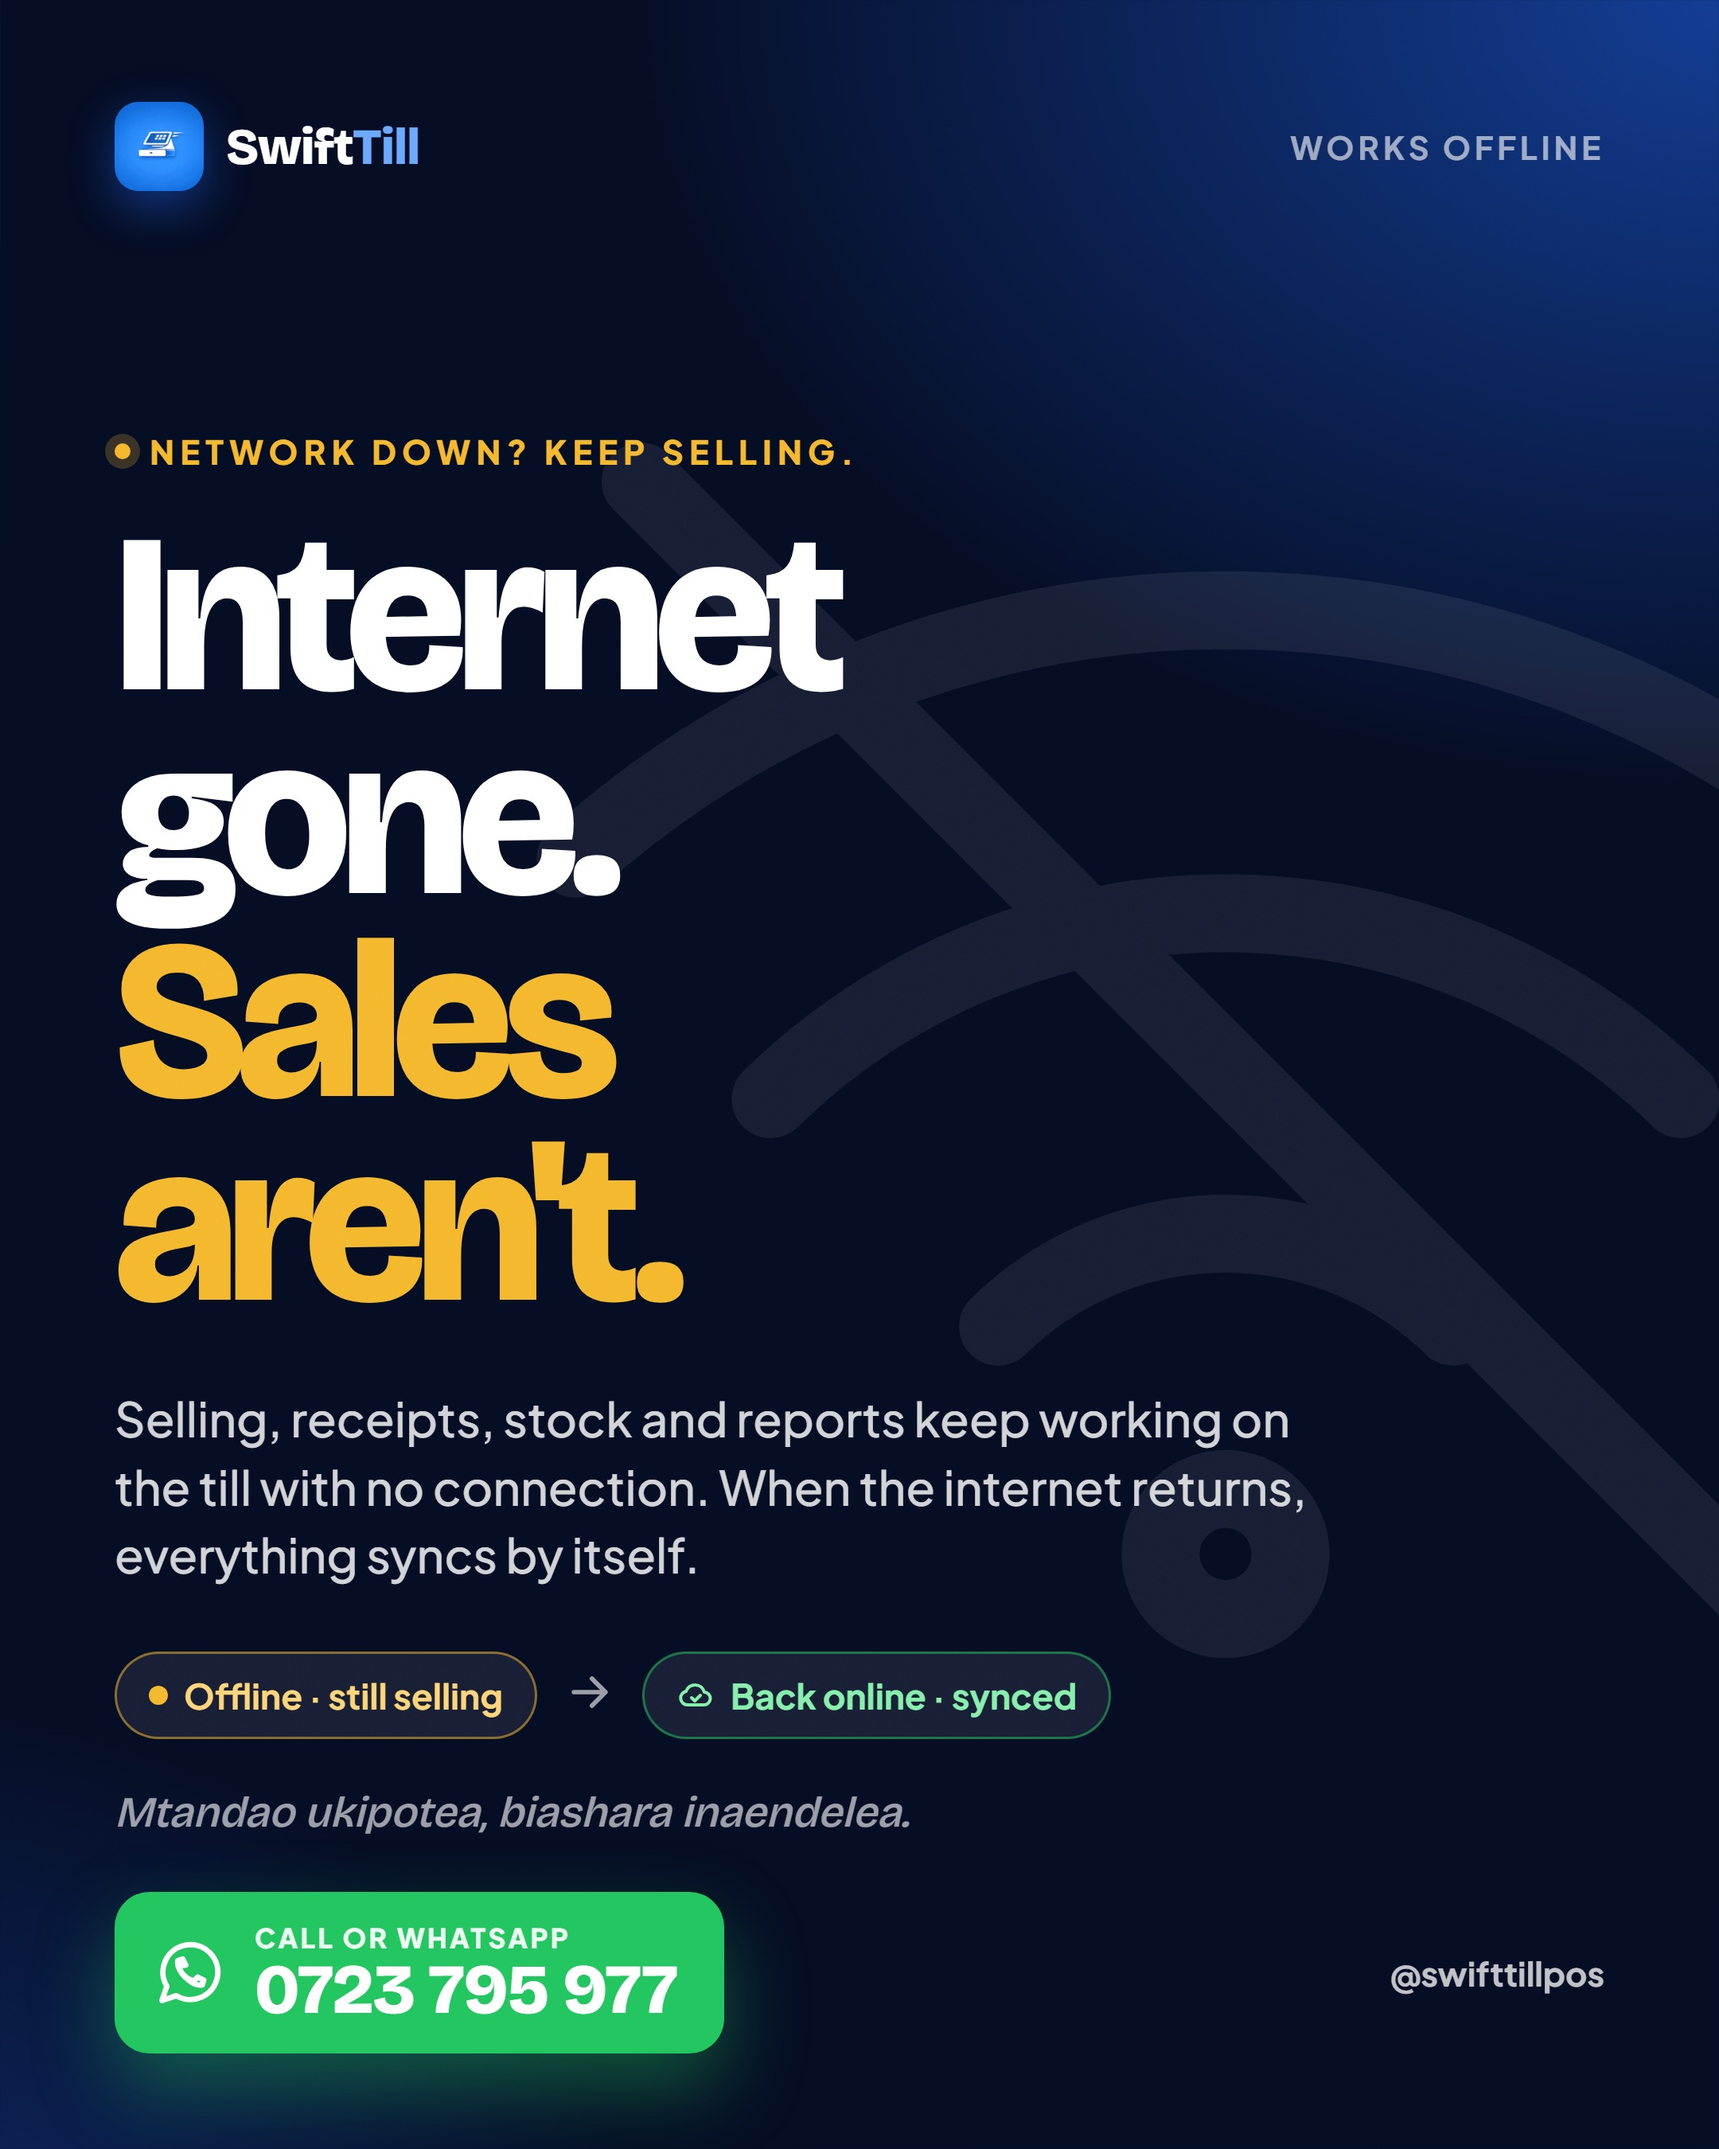
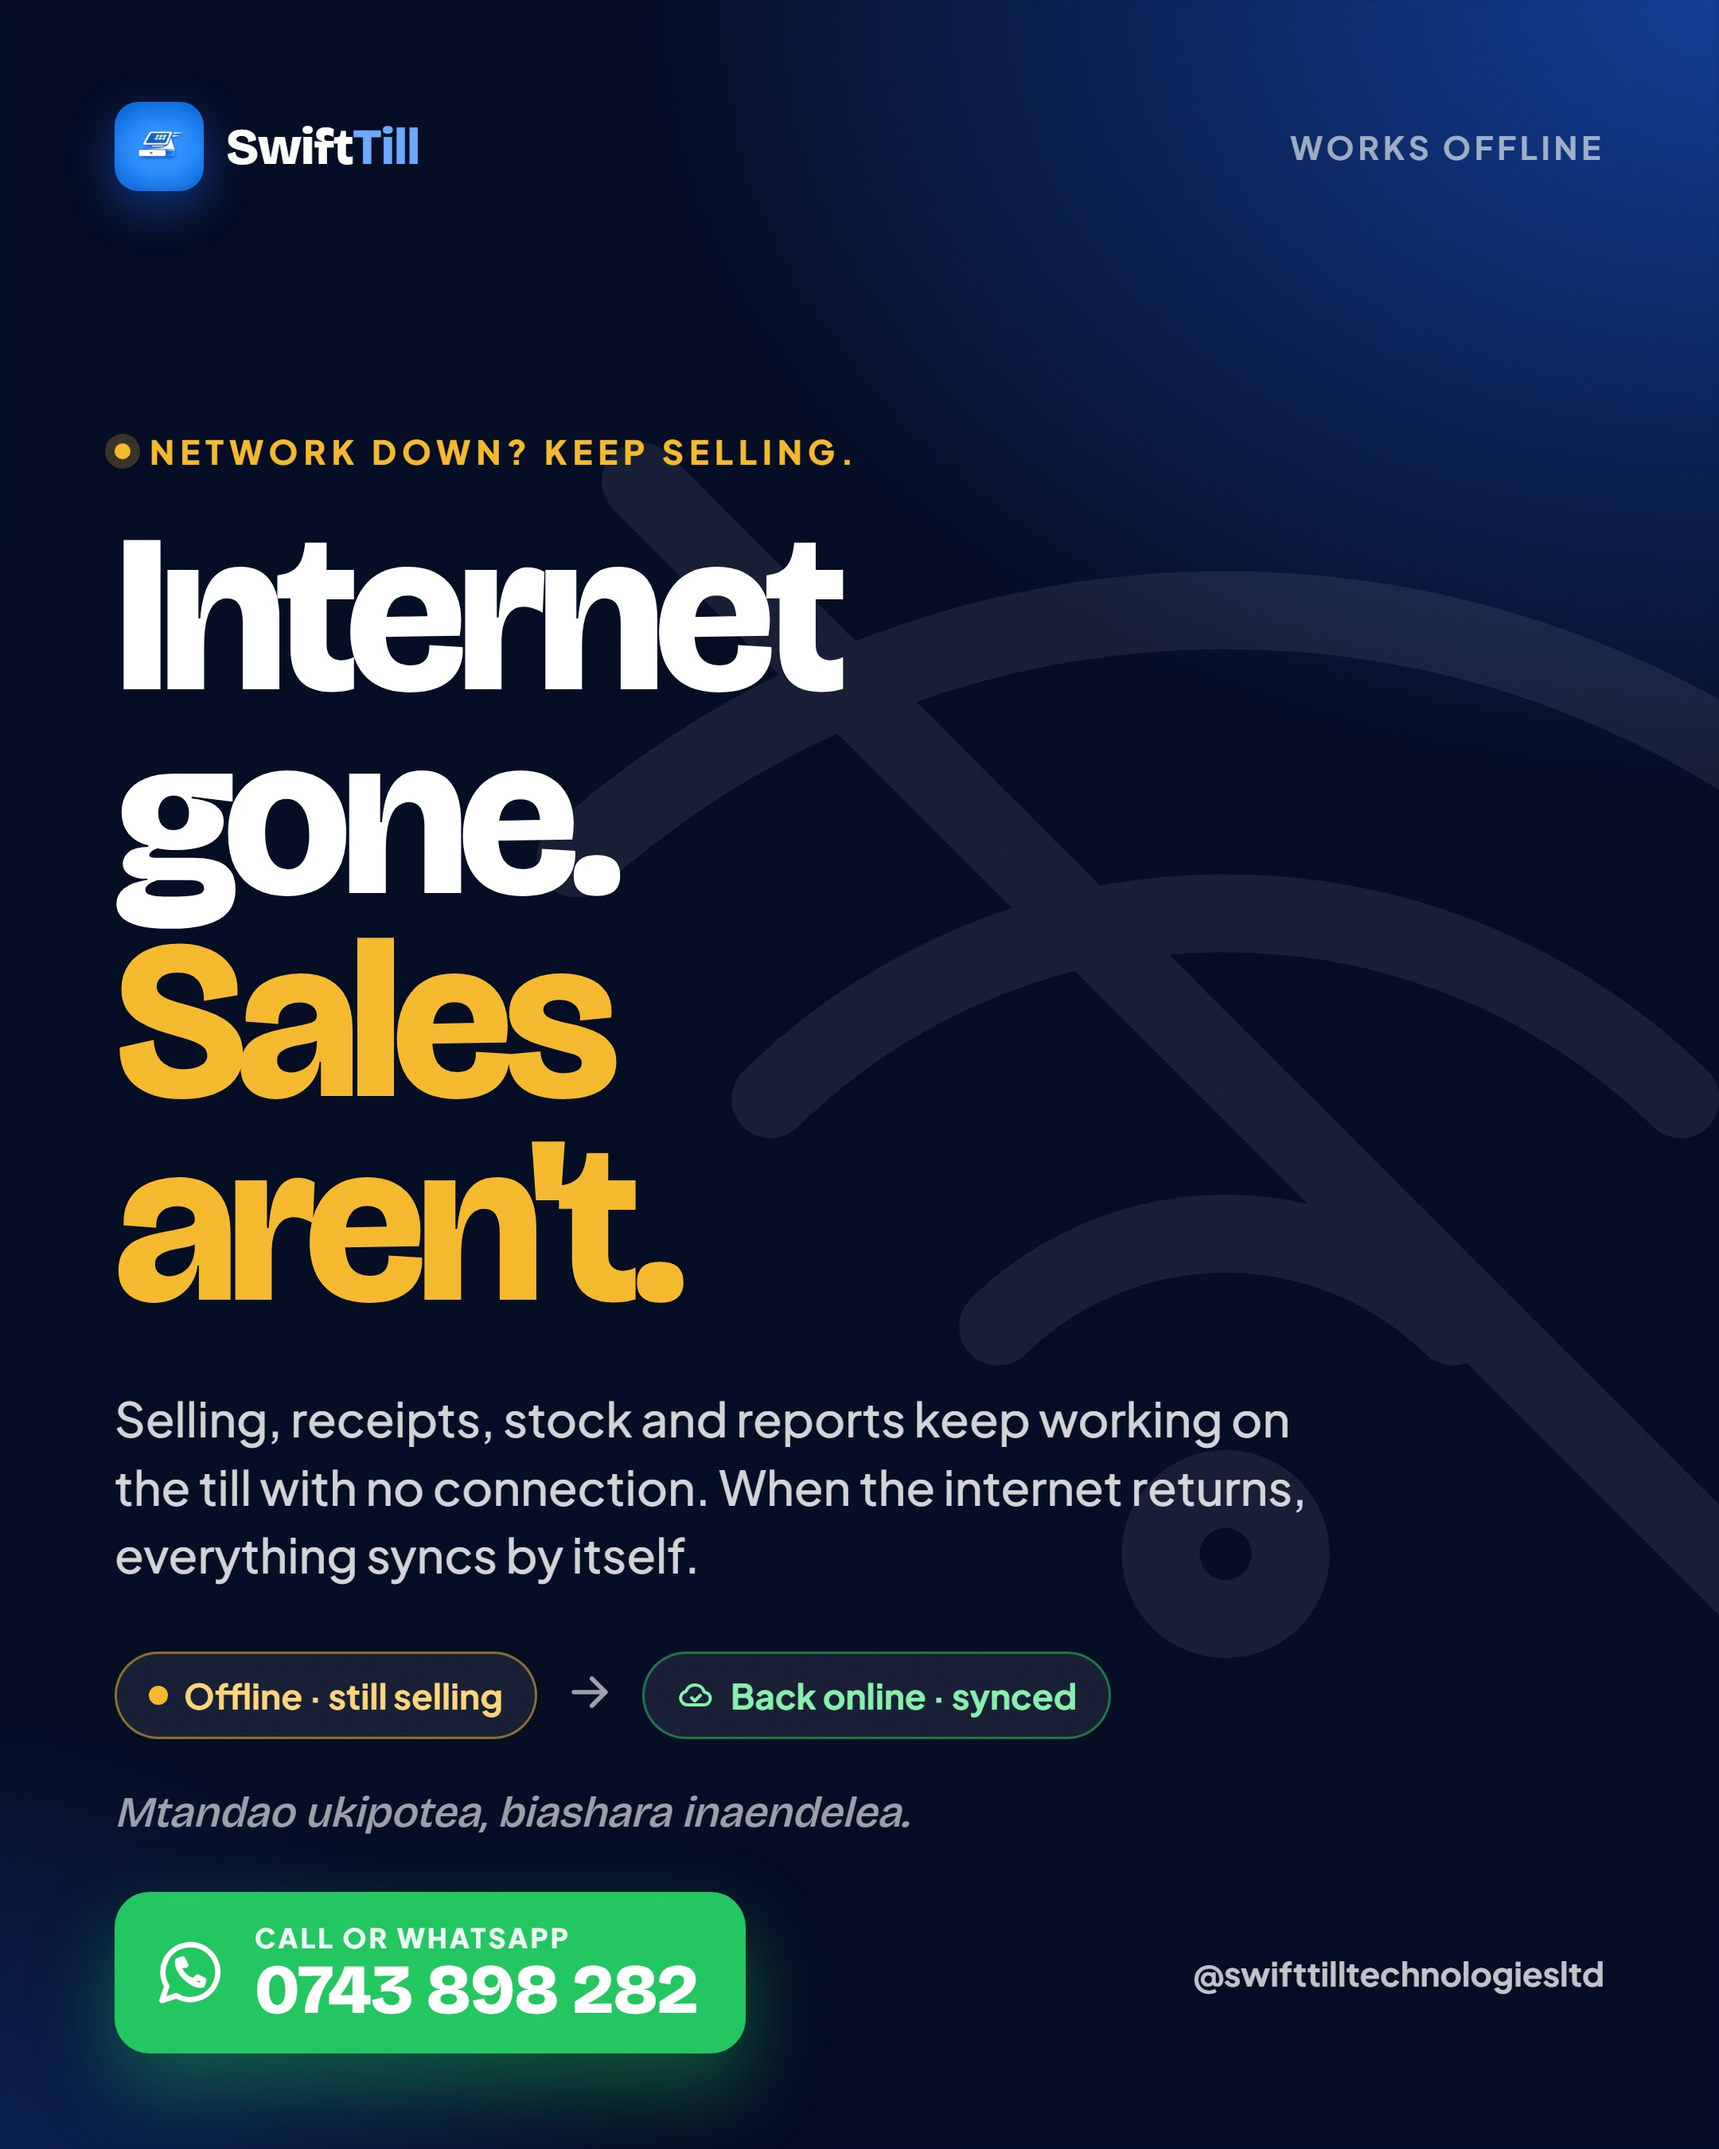
Company number is now 0743 898 282; handle @swifttilltechnologiesltd
Posters rebuilt with the new number, WhatsApp QR and Instagram handle;
FAQ, captions and policy pages updated.

Changed region(s): [[0.2481, 0.8711, 0.4343, 0.9644], [0.6824, 0.9022, 0.9306, 0.9333], [0.1861, 0.9022, 0.2171, 0.9333]]

diff --git a/terms.html b/terms.html
@@ -15,7 +15,7 @@ SUMMARY (for convenience only)
 - Do not copy, crack, share or resell SwiftTill, and do not use it for fraud or to hide sales from KRA.
 - If the licence is not renewed, the till keeps selling for a short grace period and then becomes read-only. Your records stay on your computer.
 - The Founder owns SwiftTill and its name, logo and code, and can suspend a licence that is abused, unpaid or tampered with.
-- Questions or problems: call 0743898282/0723795977 or e-mail swifttilltechnologies@gmail.com.
+- Questions or problems: call 0743898282 or e-mail swifttilltechnologies@gmail.com.
 
 This summary is not part of the Agreement and does not change it. If the summary and the clauses below differ, the clauses below apply.
 
@@ -178,8 +178,8 @@ SwiftTill provides support by phone, WhatsApp and e-mail during normal working h
 16. CONTACT
 
 SwiftTill Technologies
-Tel / WhatsApp: 0743898282/0723795977
+Tel / WhatsApp: 0743898282
 E-mail: swifttilltechnologies@gmail.com
 
 By selecting &quot;I Agree&quot;, or by installing, activating or using SwiftTill POS, you confirm that you have read, understood and accept this Agreement.
-</pre><footer>SwiftTill Technologies · Tel / WhatsApp 0743898282 / 0723795977 · swifttilltechnologies@gmail.com · <a href="privacy.html">Privacy</a> · <a href="terms.html">Terms</a></footer></body></html>
+</pre><footer>SwiftTill Technologies · Tel / WhatsApp 0743898282 · swifttilltechnologies@gmail.com · <a href="privacy.html">Privacy</a> · <a href="terms.html">Terms</a></footer></body></html>

diff --git a/privacy.html b/privacy.html
@@ -13,4 +13,4 @@ h1{font-size:28px}h2{font-size:19px;margin-top:28px}pre{white-space:pre-wrap;fon
 <h2>4. How long we keep it</h2>
 <p>Messages are kept for as long as needed to help you, and in any case no longer than the law allows. Licence and payment records are kept as tax law requires.</p>
 <h2>5. Your rights</h2>
-<p>You may ask what personal information SwiftTill holds about you, ask for it to be corrected, or ask for it to be deleted, unless the law requires us to keep it. Contact us at swifttilltechnologies@gmail.com or 0743898282 / 0723795977.</p><footer>SwiftTill Technologies · Tel / WhatsApp 0743898282 / 0723795977 · swifttilltechnologies@gmail.com · <a href="privacy.html">Privacy</a> · <a href="terms.html">Terms</a></footer></body></html>
+<p>You may ask what personal information SwiftTill holds about you, ask for it to be corrected, or ask for it to be deleted, unless the law requires us to keep it. Contact us at swifttilltechnologies@gmail.com or 0743898282.</p><footer>SwiftTill Technologies · Tel / WhatsApp 0743898282 · swifttilltechnologies@gmail.com · <a href="privacy.html">Privacy</a> · <a href="terms.html">Terms</a></footer></body></html>

diff --git a/faq.md b/faq.md
@@ -3,7 +3,7 @@
 Only use these facts. If a question is not answered here, do NOT guess: say "Let me check and get back to you" and flag it to the founder.
 
 - SwiftTill is a till / POS system made in Kenya, for Windows computers. For dukas, supermarkets, hardwares, chemists, boutiques, restaurants, agrovets, wines & spirits.
-- Contact / demo: WhatsApp or call 0723 795 977 (wa.me/254723795977). Free demo, on their own products.
+- Contact / demo: WhatsApp or call 0743 898 282 (wa.me/254743898282). Free demo, on their own products.
 - Website: https://grimstar-art.github.io/swifttill-website
 - Plans:
   - Duka: KES 18,000/year or KES 1,800/month. Setup KES 3,500. One till, kiosks and small shops.
@@ -19,7 +19,7 @@ Only use these facts. If a question is not answered here, do NOT guess: say "Let
 
 ## Reply style
 - Short, warm, plain. Mix a little Kiswahili if the customer writes in Kiswahili (reply in Kiswahili if they wrote in Kiswahili).
-- Always end with a next step: "WhatsApp 0723 795 977 and we'll book your free demo."
+- Always end with a next step: "WhatsApp 0743 898 282 and we'll book your free demo."
 - Never promise discounts, custom prices, delivery dates, refunds, or features not listed above.
 
 ## Never answer yourself — flag to the founder instead
